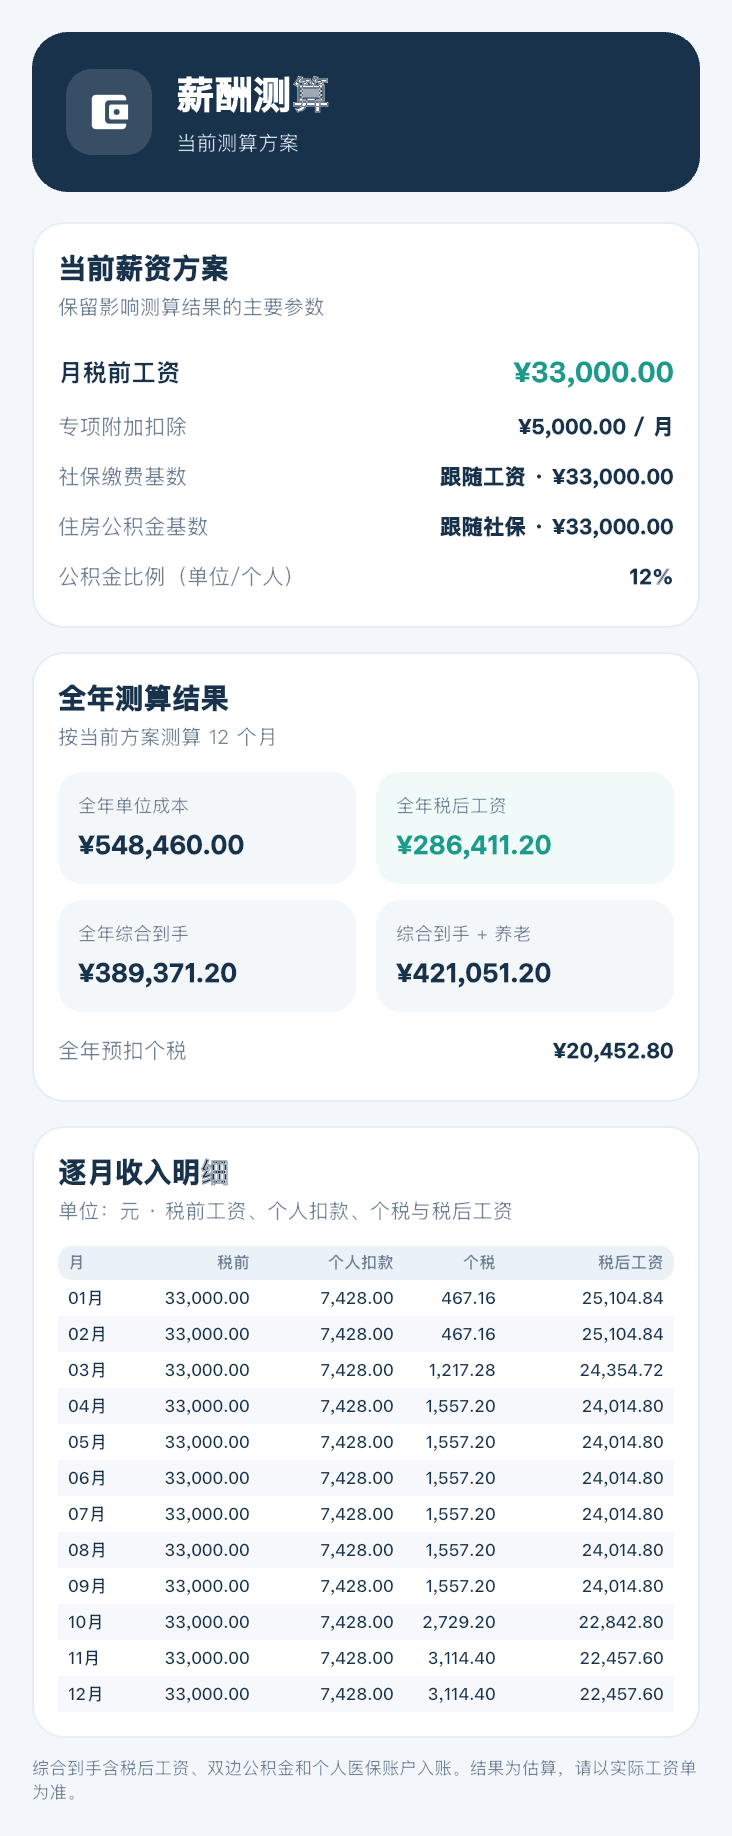
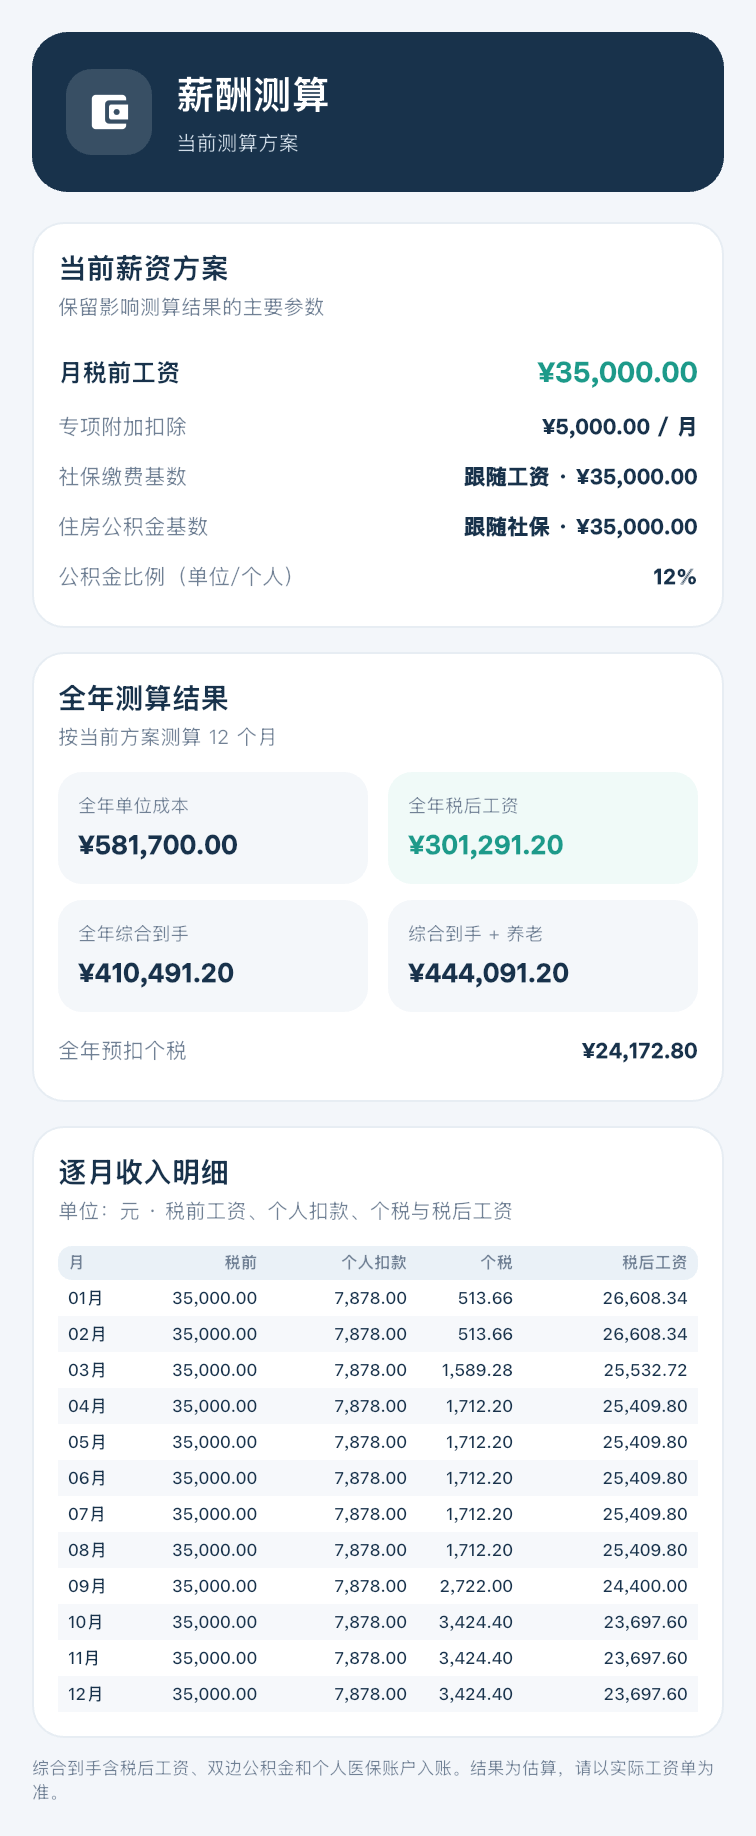
Fix iOS share image text rendering

diff --git a/lib/features/calculator/calculation_share_service.dart b/lib/features/calculator/calculation_share_service.dart
@@ -111,9 +111,8 @@ Future<void> shareSalarySnapshot(
               child: Material(
                 color: _sharePage,
                 child: DefaultTextStyle.merge(
-                  // The app theme names PingFang SC globally, which Android
-                  // does not provide. Give the detached capture tree a native
-                  // font family so complex bold CJK glyphs use one fallback.
+                  // The app theme uses PingFang SC, which Android does not
+                  // provide, so use each platform's available system family.
                   style: TextStyle(
                     fontFamily: Platform.isIOS ? 'PingFang SC' : 'sans-serif',
                   ),
@@ -306,12 +305,14 @@ class _SalaryShareCard extends StatelessWidget {
           Column(
             crossAxisAlignment: CrossAxisAlignment.start,
             children: <Widget>[
-              const Text(
+              Text(
                 '薪酬测算',
                 style: TextStyle(
                   color: Colors.white,
                   fontSize: 19,
-                  fontWeight: FontWeight.w800,
+                  fontWeight: Platform.isIOS
+                      ? FontWeight.w700
+                      : FontWeight.w800,
                 ),
               ),
               const SizedBox(height: 3),
@@ -352,10 +353,10 @@ class _ShareSection extends StatelessWidget {
       children: <Widget>[
         Text(
           title,
-          style: const TextStyle(
+          style: TextStyle(
             color: _shareNavy,
             fontSize: 14,
-            fontWeight: FontWeight.w800,
+            fontWeight: Platform.isIOS ? FontWeight.w700 : FontWeight.w800,
           ),
         ),
         const SizedBox(height: 2),
